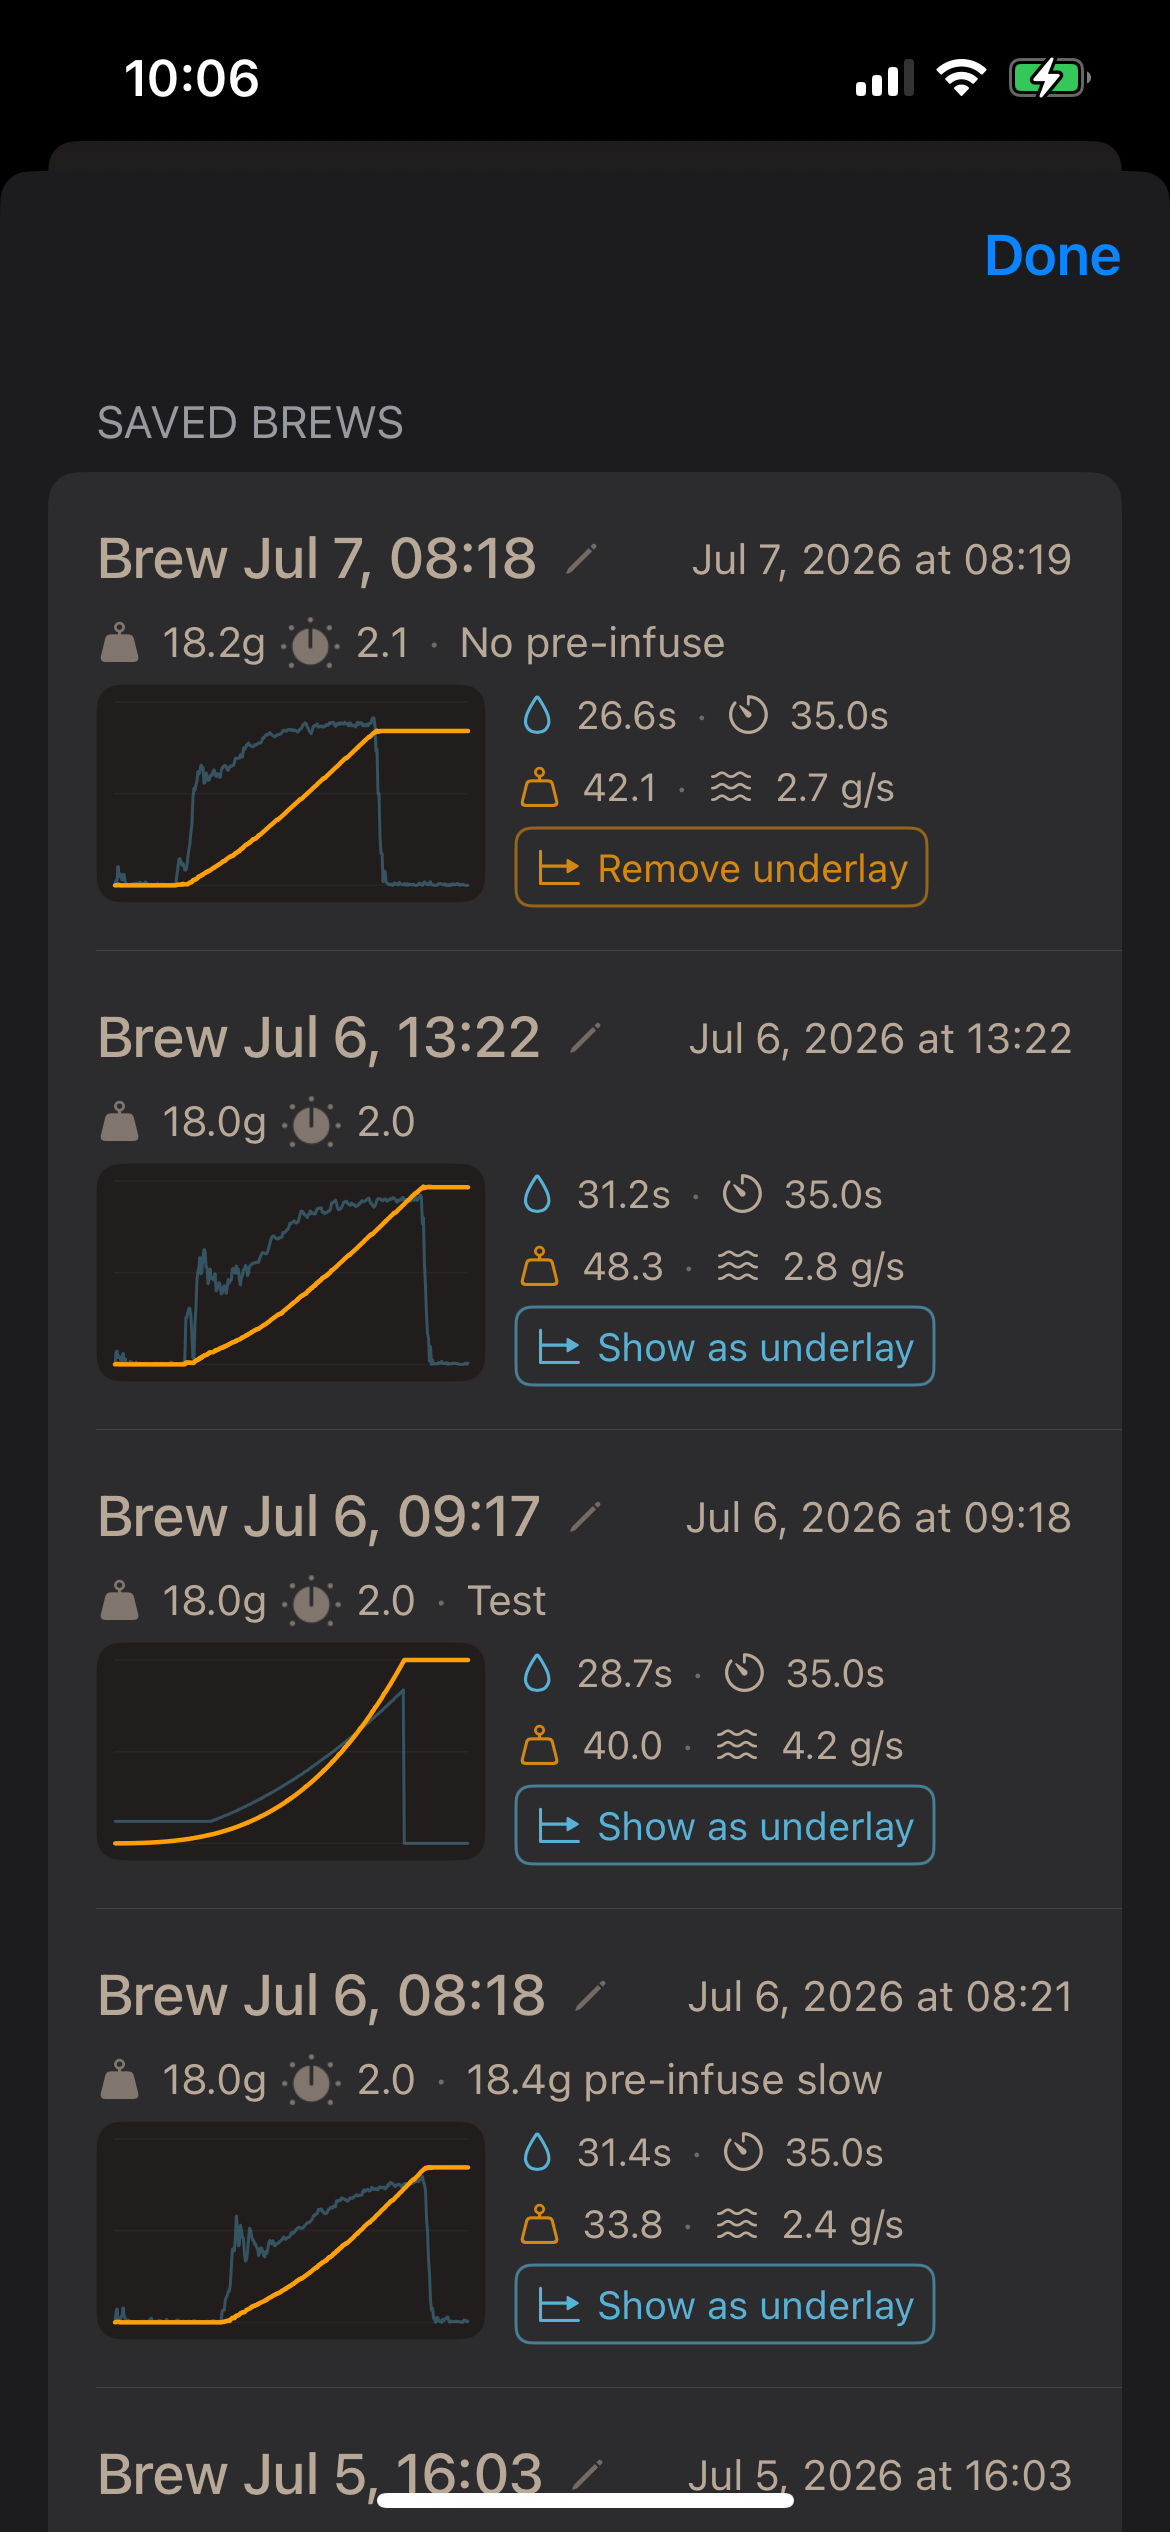
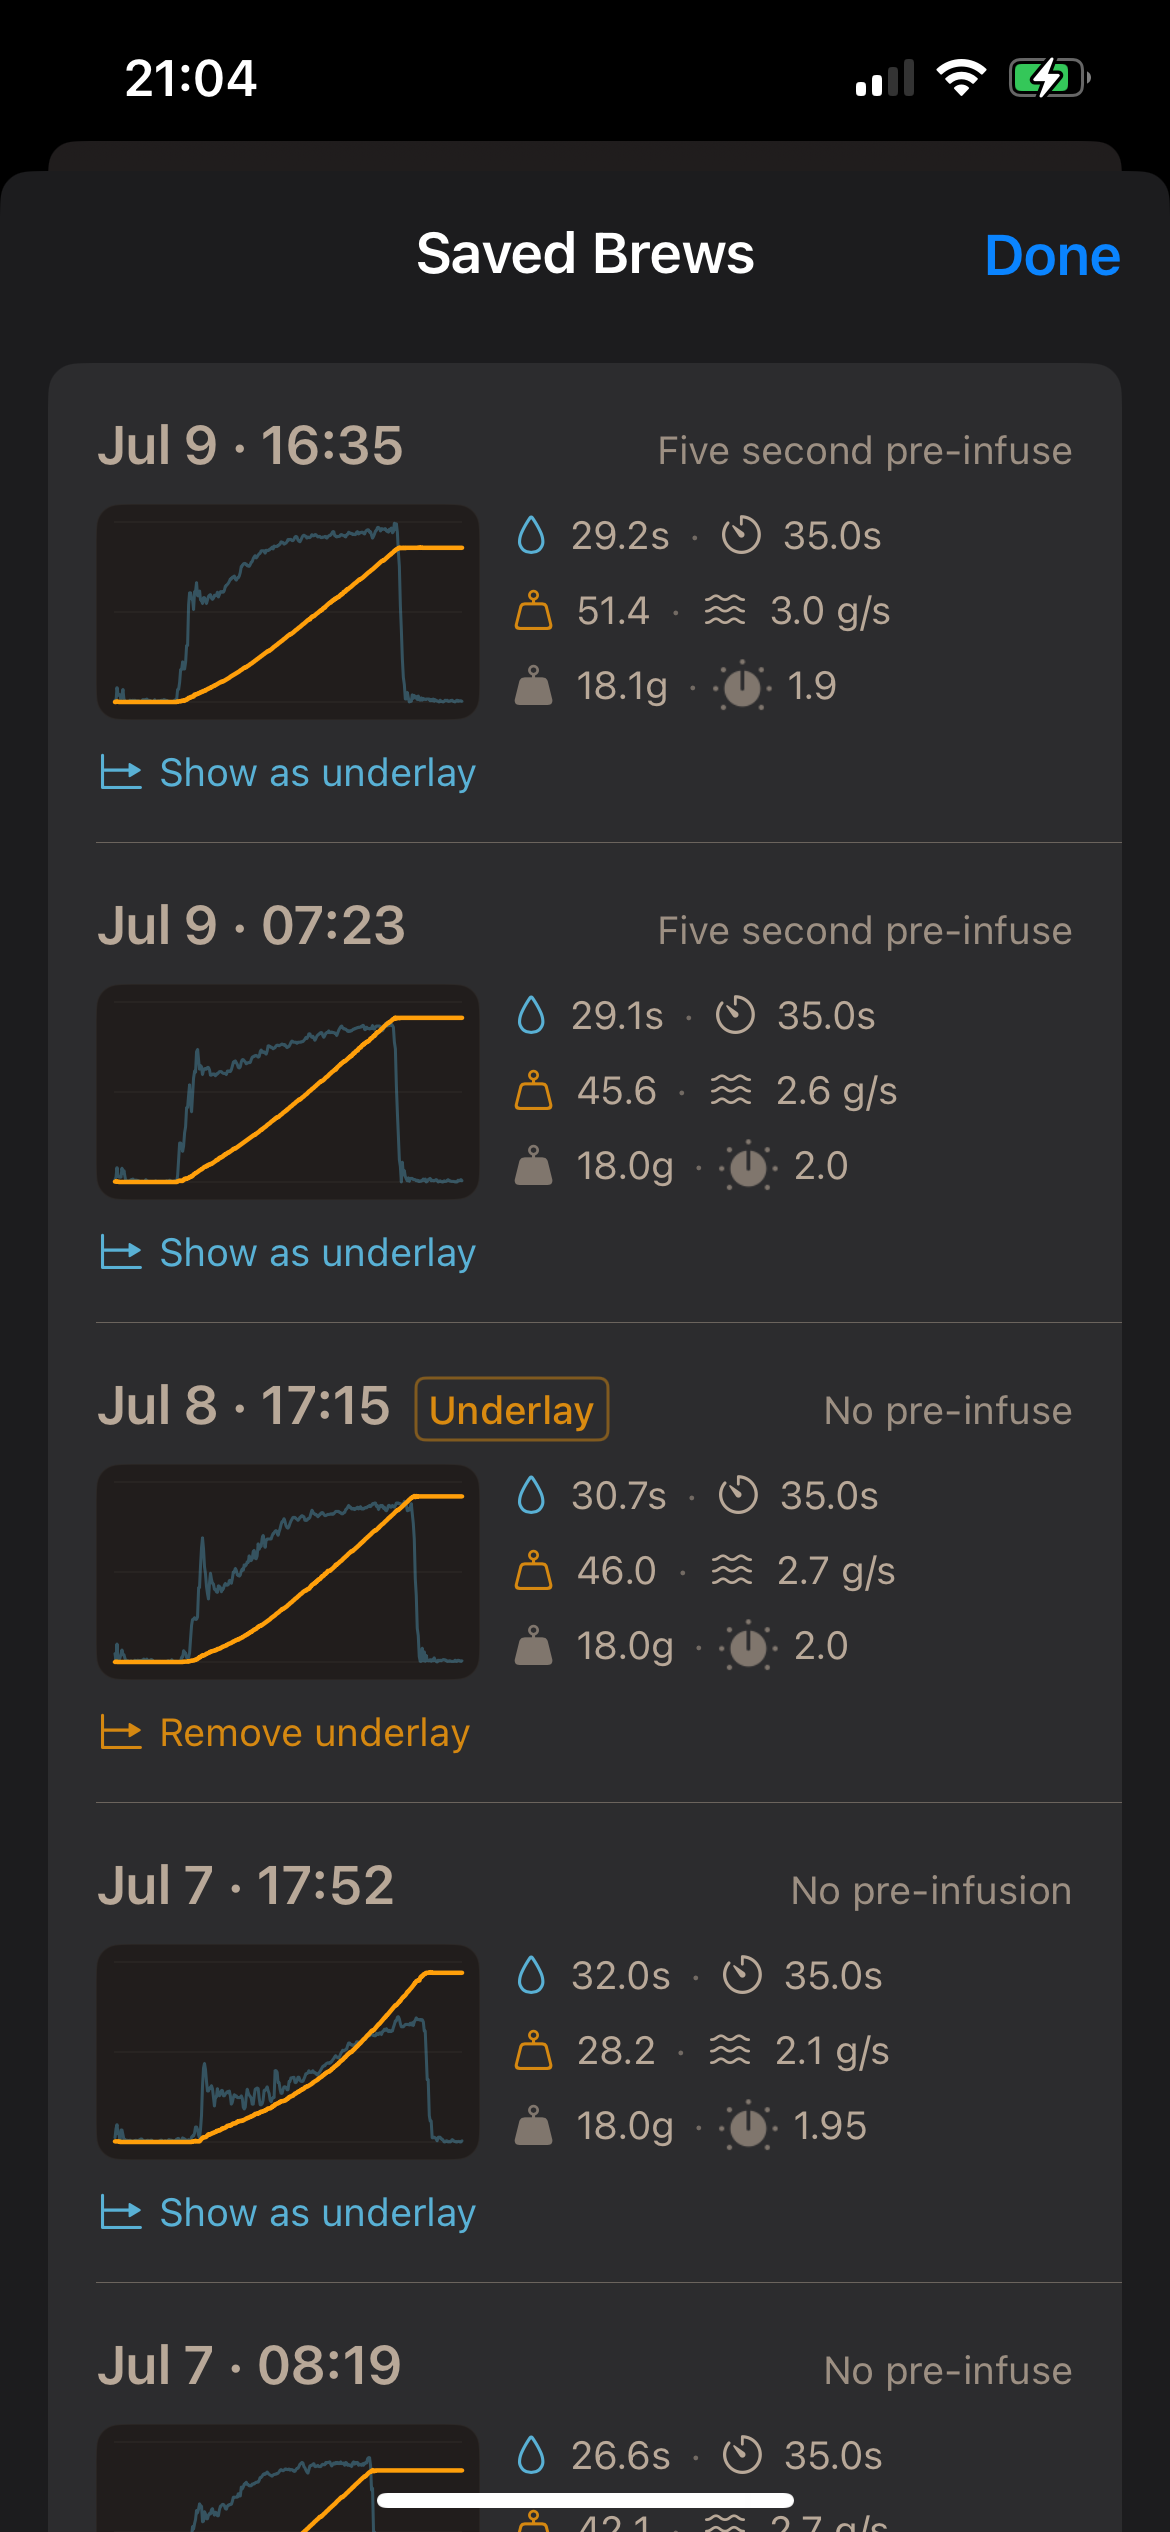
Bump to 1.4, redesign saved brews sheet, BLE-connected screen awake, lifecycle logging
Brews.png updated with redesigned Saved Brews list.

- Version 1.3 → 1.4, build reset to 1
- Screen-awake tied to BLE connection instead of foreground
- Lifecycle logging via OSLog (info level)
- BrewHistoryView: inline nav title, compact rows, swipe edit/delete,
  underlay badge in header, underlay action under thumbnail,
  stronger separators between rows only, compact top margin

diff --git a/booBud/Views/BrewHistoryView.swift b/booBud/Views/BrewHistoryView.swift
@@ -19,10 +19,9 @@ struct BrewHistoryView: View {
     // Edit sheet
     @State private var editingBrew: SavedBrew? = nil
 
-    private let dateFormatter: DateFormatter = {
+    private let timestampFormatter: DateFormatter = {
         let f = DateFormatter()
-        f.dateStyle = .medium
-        f.timeStyle = .short
+        f.dateFormat = "MMM d · h:mm a"
         return f
     }()
 
@@ -47,14 +46,15 @@ struct BrewHistoryView: View {
                 if store.brews.isEmpty {
                     emptyState
                 } else {
-                    Section("Saved Brews") {
+                    Section {
                         ForEach(store.brews) { brew in
-                            brewRow(brew)
+                            brewRow(brew, showsSeparator: brew.id != store.brews.last?.id)
                         }
-                        .onDelete(perform: deleteBrews)
                     }
                 }
             }
+            .listSectionSpacing(.compact)
+            .contentMargins(.top, 8, for: .scrollContent)
             .toolbar {
                 ToolbarItem(placement: .confirmationAction) {
                     Button("Done") { dismiss() }
@@ -70,7 +70,10 @@ struct BrewHistoryView: View {
                 beanWeight = viewModel.lastBeanWeight
                 grindSetting = viewModel.lastGrindSetting
             }
+            .navigationTitle("Saved Brews")
+            .navigationBarTitleDisplayMode(.inline)
         }
+        .presentationDetents([.large])
     }
 
     // MARK: - Save section
@@ -213,65 +216,63 @@ struct BrewHistoryView: View {
         }
     }
 
-    private func brewRow(_ brew: SavedBrew) -> some View {
+    private func displayTitle(for brew: SavedBrew) -> String {
+        let trimmedNote = brew.note.trimmingCharacters(in: .whitespacesAndNewlines)
+        if brew.name.hasPrefix("Brew ") {
+            return trimmedNote.isEmpty ? "Saved Brew" : trimmedNote
+        }
+        return brew.name
+    }
+
+    private func secondaryNote(for brew: SavedBrew) -> String? {
+        let trimmedNote = brew.note.trimmingCharacters(in: .whitespacesAndNewlines)
+        guard !trimmedNote.isEmpty, !brew.name.hasPrefix("Brew ") else { return nil }
+        return trimmedNote
+    }
+
+    private func brewRow(_ brew: SavedBrew, showsSeparator: Bool) -> some View {
         return Button {
             dismiss()
             onRecall(brew)
         } label: {
-            VStack(alignment: .leading, spacing: 4) {
-                HStack {
-                    Text(brew.name)
-                        .font(.body)
-                        .fontWeight(.medium)
+            VStack(alignment: .leading, spacing: 7) {
+                HStack(alignment: .firstTextBaseline, spacing: 8) {
+                    Text(timestampFormatter.string(from: brew.date))
+                        .font(.callout.weight(.semibold))
                         .foregroundStyle(Color.warmSecondary)
-                    Button {
-                        editingBrew = brew
-                    } label: {
-                        Image(systemName: "pencil")
-                            .font(.caption2)
-                            .foregroundStyle(Color.warmSecondary.opacity(0.5))
+                        .lineLimit(1)
+                    if viewModel.underlayBrew?.id == brew.id {
+                        Text("Underlay")
+                            .font(.caption2.weight(.medium))
+                            .foregroundStyle(.orange.opacity(0.82))
+                            .padding(.horizontal, 4)
+                            .padding(.vertical, 0.5)
+                            .overlay(RoundedRectangle(cornerRadius: 3).stroke(.orange.opacity(0.4), lineWidth: 1))
                     }
-                    .buttonStyle(.plain)
-                    Spacer()
-                    Text(dateFormatter.string(from: brew.date))
-                        .font(.caption)
-                        .foregroundStyle(Color.warmSecondary)
+                    Spacer(minLength: 8)
+                    Text(displayTitle(for: brew))
+                        .font(.caption2)
+                        .foregroundStyle(Color.warmSecondary.opacity(0.8))
+                        .lineLimit(1)
                 }
 
-                HStack(spacing: 6) {
-                    Image(systemName: "scalemass.fill")
+                if let note = secondaryNote(for: brew) {
+                    Text(note)
                         .font(.caption2)
-                        .foregroundStyle(Color.warmSecondary.opacity(0.6))
-                    Text(String(format: "%.1fg", brew.beanWeight))
-                        .font(.caption)
-                        .foregroundStyle(Color.warmSecondary)
-                    Image(systemName: "dial.medium.fill")
-                        .font(.caption2)
-                        .foregroundStyle(Color.warmSecondary.opacity(0.6))
-                        .scaleEffect(1.3)
-                    Text(grindString(brew.grindSetting))
-                        .font(.caption)
-                        .foregroundStyle(Color.warmSecondary)
-                    if !brew.note.isEmpty {
-                        Text("·")
-                            .font(.caption)
-                            .foregroundStyle(Color.warmSecondary.opacity(0.5))
-                        Text(brew.note)
-                            .font(.caption)
-                            .foregroundStyle(Color.warmSecondary)
-                            .lineLimit(1)
-                    }
+                        .foregroundStyle(Color.warmSecondary.opacity(0.82))
+                        .lineLimit(1)
                 }
 
-                // Thumbnail card + metadata row
                 HStack(alignment: .top, spacing: 10) {
-                    BrewThumbnailView(
-                        weightPoints: brew.weightPoints,
-                        flowPoints: brew.flowPoints
-                    )
-                    .frame(width: 130)
+                    VStack(alignment: .leading, spacing: 6) {
+                        BrewThumbnailView(
+                            weightPoints: brew.weightPoints,
+                            flowPoints: brew.flowPoints
+                        )
+                        .frame(width: 128)
+                    }
 
-                    VStack(alignment: .leading, spacing: 4) {
+                    VStack(alignment: .leading, spacing: 5) {
                         let effectiveStop = brew.flowStoppedAt
                             ?? (brew.weightPoints.contains { $0.value > 5.0 }
                                 ? brew.flowPoints.computeFlowStoppedAt(threshold: viewModel.flowStopThreshold)
@@ -293,8 +294,8 @@ struct BrewHistoryView: View {
                                 Text(formatBrewSeconds(brew.duration))
                             }
                         }
+                        .frame(maxWidth: .infinity, alignment: .leading)
 
-                        // Weight + flow row
                         HStack(spacing: 6) {
                             Image(systemName: "scalemass")
                                 .foregroundStyle(.orange.opacity(0.8))
@@ -303,58 +304,91 @@ struct BrewHistoryView: View {
                             Image(systemName: "water.waves")
                             Text(String(format: "%.1f g/s", brew.peakFlow))
                         }
+                        .frame(maxWidth: .infinity, alignment: .leading)
 
-                        // Underlay button
-                        if viewModel.underlayBrew?.id == brew.id {
-                            Button {
-                                viewModel.underlayBrew = nil
-                                dismiss()
-                            } label: {
-                                HStack(spacing: 4) {
-                                    Image(systemName: "chart.line.flattrend.xyaxis")
-                                    Text("Remove underlay")
-                                }
+                        HStack(spacing: 6) {
+                            Image(systemName: "scalemass.fill")
                                 .font(.caption2)
-                                .foregroundStyle(.orange.opacity(0.8))
-                                .padding(.vertical, 3)
-                                .padding(.horizontal, 6)
-                                .overlay(RoundedRectangle(cornerRadius: 5).stroke(.orange.opacity(0.5), lineWidth: 1))
-                            }
-                            .buttonStyle(.plain)
-                        } else {
-                            Button {
-                                viewModel.underlayBrew = brew
-                                viewModel.hideUnderlayChip = false
-                                dismiss()
-                            } label: {
-                                HStack(spacing: 4) {
-                                    Image(systemName: "chart.line.flattrend.xyaxis")
-                                    Text("Show as underlay")
-                                }
+                                .foregroundStyle(Color.warmSecondary.opacity(0.6))
+                            Text(String(format: "%.1fg", brew.beanWeight))
+                            Text("·").foregroundStyle(.secondary)
+                            Image(systemName: "dial.medium.fill")
                                 .font(.caption2)
-                                .foregroundStyle(.cyan.opacity(0.8))
-                                .padding(.vertical, 3)
-                                .padding(.horizontal, 6)
-                                .overlay(RoundedRectangle(cornerRadius: 5).stroke(.cyan.opacity(0.5), lineWidth: 1))
-                            }
-                            .buttonStyle(.plain)
+                                .foregroundStyle(Color.warmSecondary.opacity(0.6))
+                                .scaleEffect(1.3)
+                            Text(grindString(brew.grindSetting))
                         }
+                        .frame(maxWidth: .infinity, alignment: .leading)
                     }
                 }
                 .font(.caption2)
                 .foregroundStyle(Color.warmSecondary)
+
+                HStack(alignment: .center) {
+                    if viewModel.underlayBrew?.id == brew.id {
+                        Button {
+                            viewModel.underlayBrew = nil
+                            dismiss()
+                        } label: {
+                            HStack(spacing: 4) {
+                                Image(systemName: "chart.line.flattrend.xyaxis")
+                                Text("Remove underlay")
+                            }
+                            .font(.caption2)
+                            .foregroundStyle(.orange.opacity(0.8))
+                        }
+                        .buttonStyle(.plain)
+                    } else {
+                        Button {
+                            viewModel.underlayBrew = brew
+                            viewModel.hideUnderlayChip = false
+                            dismiss()
+                        } label: {
+                            HStack(spacing: 4) {
+                                Image(systemName: "chart.line.flattrend.xyaxis")
+                                Text("Show as underlay")
+                            }
+                            .font(.caption2)
+                            .foregroundStyle(.cyan.opacity(0.8))
+                        }
+                        .buttonStyle(.plain)
+                    }
+
+                    Spacer()
+                }
             }
-            .padding(.vertical, 2)
+            .padding(.vertical, 1)
         }
+        .listRowSeparator(.hidden, edges: .top)
+        .listRowSeparator(showsSeparator ? .visible : .hidden, edges: .bottom)
+        .listRowSeparatorTint(Color.warmSecondary.opacity(0.45))
+        .swipeActions(edge: .leading, allowsFullSwipe: false) {
+            Button {
+                editingBrew = brew
+            } label: {
+                Label("Edit", systemImage: "pencil")
+            }
+            .tint(.orange)
+        }
+        .swipeActions(edge: .trailing, allowsFullSwipe: true) {
+            Button(role: .destructive) {
+                deleteBrew(brew)
+            } label: {
+                Label("Delete", systemImage: "trash")
+            }
+        }
+    }
+
+    private func deleteBrew(_ brew: SavedBrew) {
+        if viewModel.underlayBrew?.id == brew.id {
+            viewModel.underlayBrew = nil
+        }
+        store.delete(brew)
     }
 
     private func deleteBrews(at offsets: IndexSet) {
         for idx in offsets {
-            let brew = store.brews[idx]
-            if viewModel.underlayBrew?.id == brew.id {
-                viewModel.underlayBrew = nil
-            }
-            store.delete(brew)
+            deleteBrew(store.brews[idx])
         }
     }
 }

diff --git a/booBud/Views/ContentView.swift b/booBud/Views/ContentView.swift
@@ -1,7 +1,13 @@
 import SwiftUI
+import OSLog
 
 /// Main container view — weight display + controls + device picker.
 struct ContentView: View {
+    private static let lifecycleLogger = Logger(
+        subsystem: Bundle.main.bundleIdentifier ?? "com.boobud.app",
+        category: "lifecycle"
+    )
+
     @Environment(\.scenePhase) private var scenePhase
     @State private var viewModel = ScaleViewModel()
     @State private var showDevicePicker = false
@@ -99,15 +105,40 @@ struct ContentView: View {
             viewModel.startScanning()
             viewModel.restoreUnderlay(from: brewStore)
             scheduleSplashDismissal()
+            updateIdleTimer()
         }
         .onChange(of: viewModel.connectionState) { _, newState in
             if case .connected = newState {
                 dismissSplash()
             }
+            updateIdleTimer()
         }
         .onChange(of: scenePhase) { _, newPhase in
-            UIApplication.shared.isIdleTimerDisabled = (newPhase == .active)
+            updateIdleTimer()
+
+            switch newPhase {
+            case .active:
+                Self.lifecycleLogger.info("App foregrounded (active)")
+            case .background:
+                Self.lifecycleLogger.info("App backgrounded")
+            case .inactive:
+                Self.lifecycleLogger.info("App inactive")
+            @unknown default:
+                Self.lifecycleLogger.info("App phase changed: unknown")
+            }
         }
+    }
+
+    // MARK: - Idle Timer
+
+    private func updateIdleTimer() {
+        let isConnected: Bool = {
+            if case .connected = viewModel.connectionState { return true }
+            return false
+        }()
+        let shouldStayAwake = (scenePhase == .active) && isConnected
+        UIApplication.shared.isIdleTimerDisabled = shouldStayAwake
+        Self.lifecycleLogger.info("Idle timer disabled: \(shouldStayAwake) (phase=\(String(describing: scenePhase)), connected=\(isConnected))")
     }
 
     // MARK: - Splash